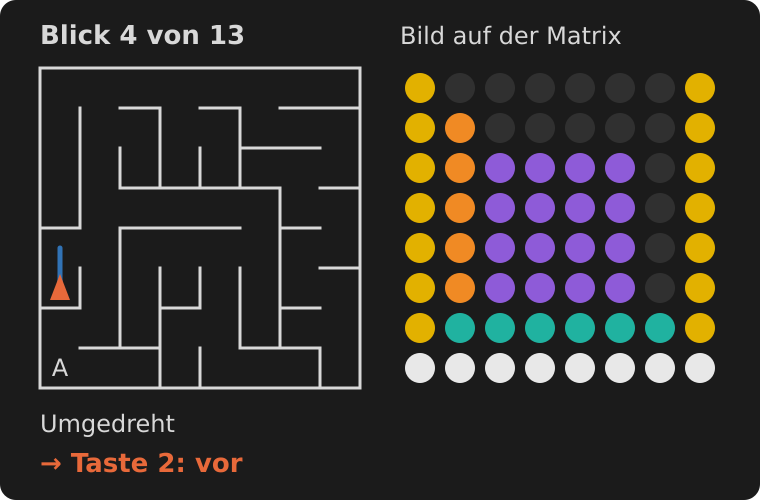
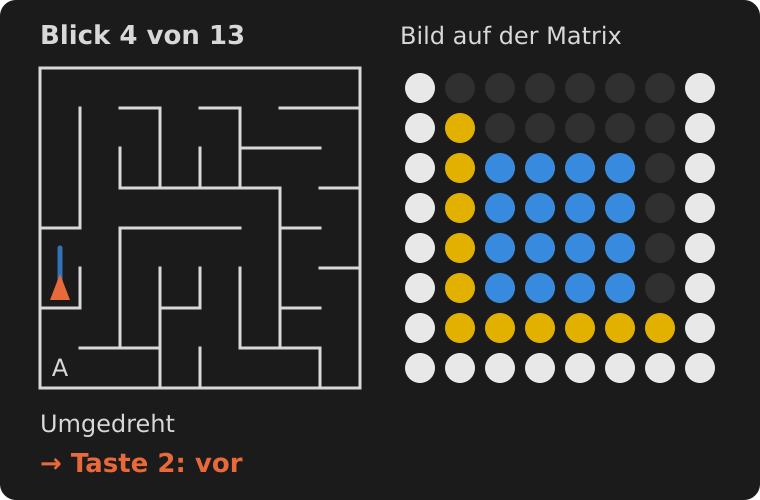
Version 13: Farbringe nach Entfernung (weiss, gelb, orange), Stirnwand blau
Claude-Session: https://claude.ai/code/session_01U7fekmFcKLeqN7GHxQrNkj

Changed region(s): [[0.5145, 0.15, 0.9382, 0.69]]

diff --git a/irrgarten_farben.py b/irrgarten_farben.py
@@ -1,23 +1,22 @@
 # Userscript fuer den 3D-Irrgarten (irrgarten.mic) auf dem ESP2090 Studio
-# Setzt die Farbmatrix und endet. Die Farben werden mit der Entfernung dunkler:
-#   Seitenwaende gelb, orange, rot (1., 2., 3. Raum), Boden weiss, tuerkis, blau (unten 8, 6, 4 LEDs).
+# Setzt die Farbmatrix und endet. Seitenwaende und Boden eines Raums bilden einen Ring in einer Farbe,
+#   zur Ferne hin dunkler: weiss (1. Raum), gelb (2. Raum), orange (3. Raum).
 # Einmal nach dem Einschalten des ESP starten ("Run"), die Matrix muss eingeschaltet sein ("LED on").
 # Fuer weitere RUNs ist es nicht noetig. Nach einer Aenderung der Farben hier: noch einmal starten, dann RUN.
-# Die Stirnwand (violett) und das Loch am Ausgang (schwarz) faerbt das Programm selbst.
+# Die Stirnwand (blau) und das Loch am Ausgang (schwarz) faerbt das Programm selbst.
 
-G, O, R = "gelb", "orange", "rot"          # Seitenwaende: nah, mittel, fern
-W, T, B = "weiss", "tuerkis", "blau"       # Boden: nah, mittel, fern
+N, M, F = "weiss", "gelb", "orange"        # Ring nah, mittel, fern
 _ = "schwarz"                              # hier leuchtet nur die Stirnwand, Farbe egal
 
 farben = [
-    [G, _, _, _, _, _, _, G],
-    [G, O, _, _, _, _, O, G],
-    [G, O, R, _, _, R, O, G],
-    [G, O, R, _, _, R, O, G],
-    [G, O, R, _, _, R, O, G],
-    [G, O, B, B, B, B, O, G],
-    [G, T, T, T, T, T, T, G],
-    [W, W, W, W, W, W, W, W],
+    [N, _, _, _, _, _, _, N],
+    [N, M, _, _, _, _, M, N],
+    [N, M, F, _, _, F, M, N],
+    [N, M, F, _, _, F, M, N],
+    [N, M, F, _, _, F, M, N],
+    [N, M, F, F, F, F, M, N],
+    [N, M, M, M, M, M, M, N],
+    [N, N, N, N, N, N, N, N],
 ]
 
 setColors([c for zeile in farben for c in zeile])

diff --git a/README.md b/README.md
@@ -23,15 +23,15 @@ Für jeden weiteren RUN reichen RESET und RUN. Das Userscript braucht es nur noc
 
 Die Matrix muss wach sein. Hat ein anderes Programm sie schlafen gelegt, wartet der Irrgarten, bis sie geweckt wird.
 
-**Ohne Userscript** läuft das Programm auch und bleibt spielbar: Seitenwände und Boden sind dann alle rot, die Standardfarbe der Matrix. Stirnwand und Loch färbt das Programm selbst, sie bleiben violett und dunkel. So sieht es auch im Emulator2090 aus, der keine Userscripts kennt.
+**Ohne Userscript** läuft das Programm auch und bleibt spielbar: Seitenwände und Boden sind dann alle rot, die Standardfarbe der Matrix. Stirnwand und Loch färbt das Programm selbst, sie bleiben blau und dunkel. So sieht es auch im Emulator2090 aus, der keine Userscripts kennt.
 
 ## Bild
 
 - **Sichttiefe:** 3 Räume. Bleibt die Mitte dunkel, geht der Gang noch weiter.
-- **Farben nach Entfernung:** Seitenwände und Boden werden zur Ferne hin dunkler, das gibt mehr Tiefe.
-- **Boden:** die untersten drei Zeilen mit 8, 6 und 4 LEDs, von nah nach fern weiß, türkis, blau.
-- **Seitenwände:** Spalte 1/8, 2/7 und 3/6 für den 1., 2. und 3. Raum, gelb, orange, rot. Eine Öffnung zur Seite bleibt dunkel.
-- **Stirnwand:** violett, ein Quadrat in der Mitte mit 6, 4 oder 2 LEDs Kante, je nach Entfernung.
+- **Ringe nach Entfernung:** Seitenwände und Boden eines Raums bilden einen Ring in einer Farbe, zur Ferne hin dunkler: weiß, gelb, orange für den 1., 2. und 3. Raum. Das gibt den Eindruck eines Tunnels.
+- **Boden:** die untersten drei Zeilen mit 8, 6 und 4 LEDs.
+- **Seitenwände:** Spalte 1/8, 2/7 und 3/6 für den 1., 2. und 3. Raum. Eine Öffnung zur Seite bleibt dunkel.
+- **Stirnwand:** blau, ein Quadrat in der Mitte mit 6, 4 oder 2 LEDs Kante, je nach Entfernung.
 - **Ausgang:** ein dunkles Loch im Boden direkt vor der Stirnwand, so breit wie sie.
 
 ## Bedienung
@@ -53,8 +53,8 @@ Dass nach dem Finden des Ausgangs gleich ein neuer Irrgarten kommt, scheint viel
 
 ## Farben ändern
 
-- **Seitenwände und Boden:** im Userscript, `G, O, R` für die Seitenwände und `W, T, B` für den Boden, jeweils nah, mittel, fern. Möglich sind die Farbnamen von `setColors`. Nach einer Änderung das Userscript noch einmal starten, dann RESET und RUN.
-- **Stirnwand:** im Programm an Adresse 88, Befehl `178`. Die mittlere Ziffer ist die Farbnummer der Matrix (7 = violett).
+- **Seitenwände und Boden:** im Userscript, `N, M, F` für die Ringe nah, mittel, fern. Möglich sind die Farbnamen von `setColors`. Nach einer Änderung das Userscript noch einmal starten, dann RESET und RUN.
+- **Stirnwand:** im Programm an Adresse 88, Befehl `168`. Die mittlere Ziffer ist die Farbnummer der Matrix (6 = blau).
 - **Loch am Ausgang:** im Programm an Adresse 7C, Befehl `108` (0 = schwarz).
 
 ## Immer an der Wand lang...
@@ -72,7 +72,7 @@ Das klappt, weil der Irrgarten keine Schleifen und keine Inseln hat: Die Regel f
 
 <img src="bilder/legende.png" width="390" alt="Drei Beispielbilder der Matrix, Spalte 1 und 8 sind markiert">
 
-- **Rechts** ist Spalte 8, **links** ist Spalte 1. Leuchtet die Spalte (gelb), ist dort Wand. Ist sie dunkel, ist dort eine Öffnung.
+- **Rechts** ist Spalte 8, **links** ist Spalte 1. Leuchtet die Spalte (weiß), ist dort Wand. Ist sie dunkel, ist dort eine Öffnung.
 - **Vorn** steht eine Wand, wenn das Quadrat der Stirnwand groß ist (6x6 LEDs). Ist es kleiner oder fehlt es, ist der nächste Raum frei.
 - **Bild A:** rechts offen, links Wand, vorn frei (das Quadrat ist nur 4x4, die Stirnwand steht einen Raum weiter).
 - **Bild B:** rechts und links Wand, vorn frei.
